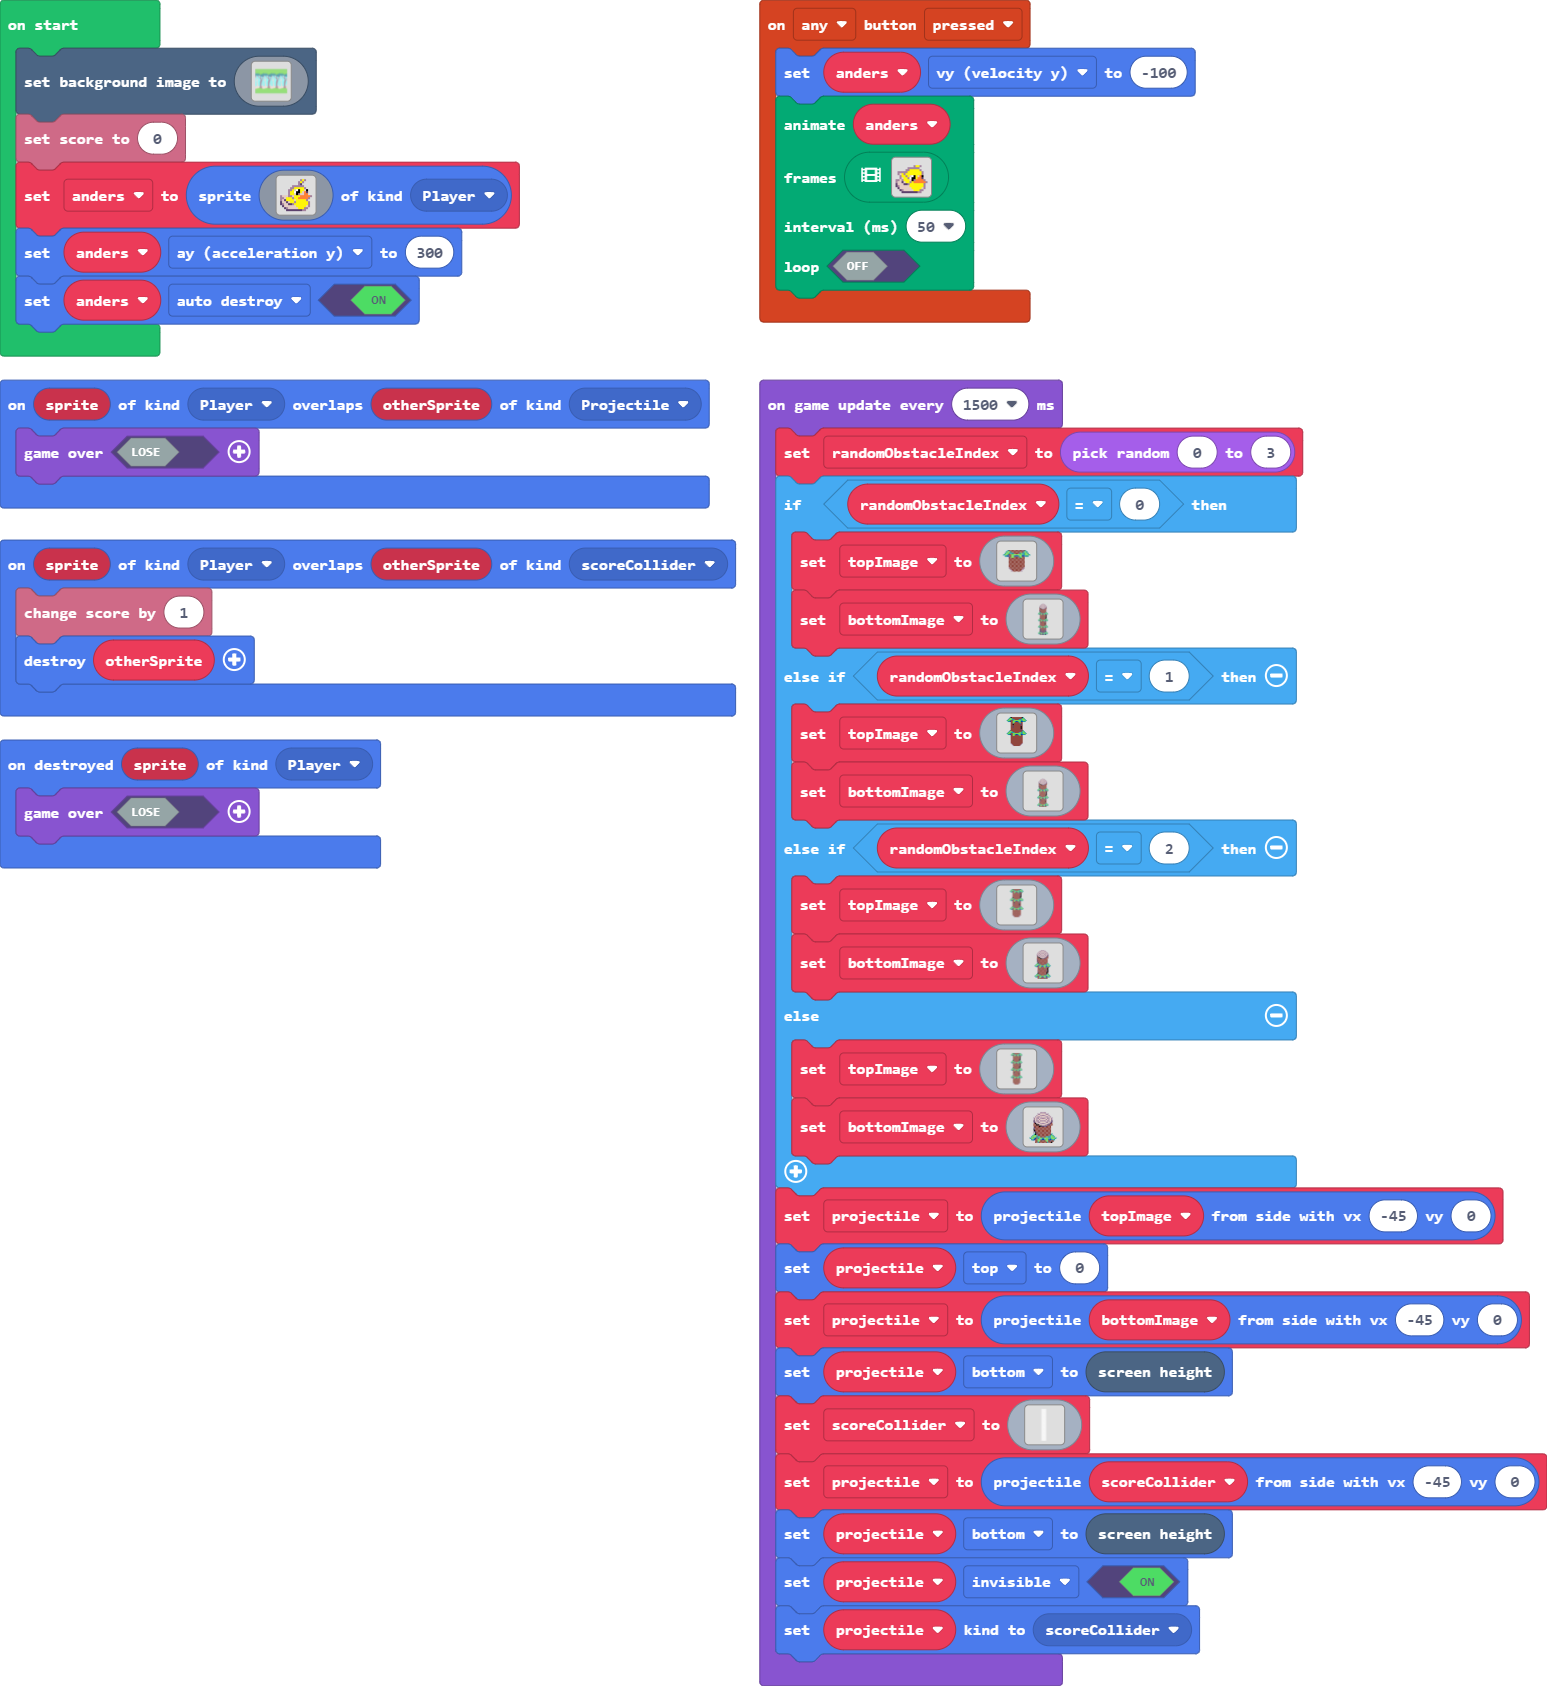
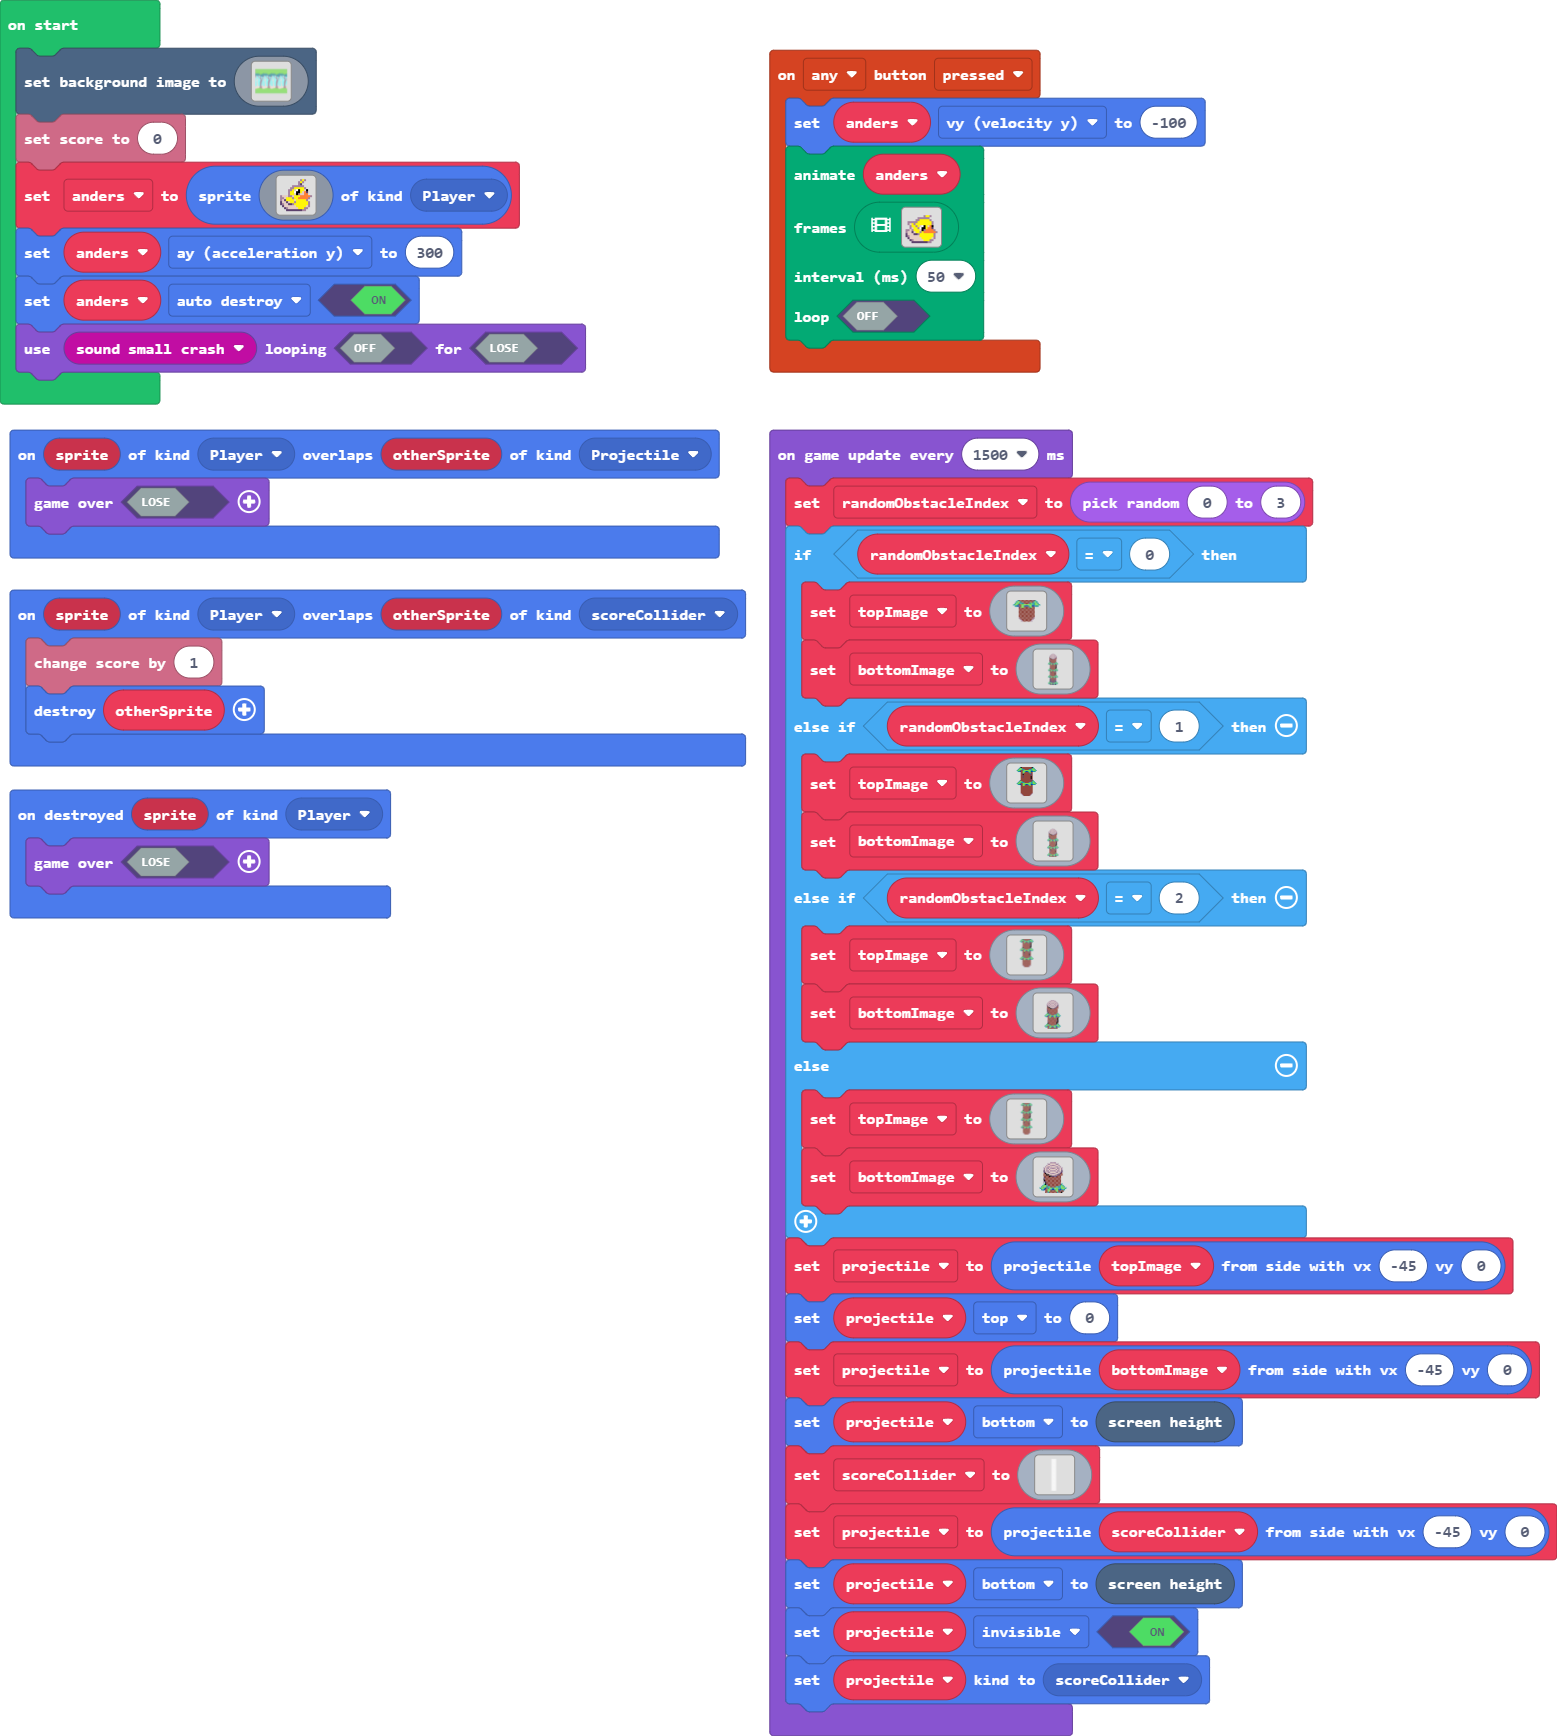
Changed the sound when losing!

Changed region(s): [[0.0, 0.0, 1.0, 1.0]]

diff --git a/main.ts b/main.ts
@@ -37,6 +37,7 @@ info.setScore(0)
 anders = sprites.create(assets.image`anders`, SpriteKind.Player)
 anders.ay = 300
 anders.setFlag(SpriteFlag.AutoDestroy, true)
+game.setGameOverPlayable(false, music.melodyPlayable(music.smallCrash), false)
 game.onUpdateInterval(1500, function () {
     randomObstacleIndex = randint(0, 3)
     if (randomObstacleIndex == 0) {
